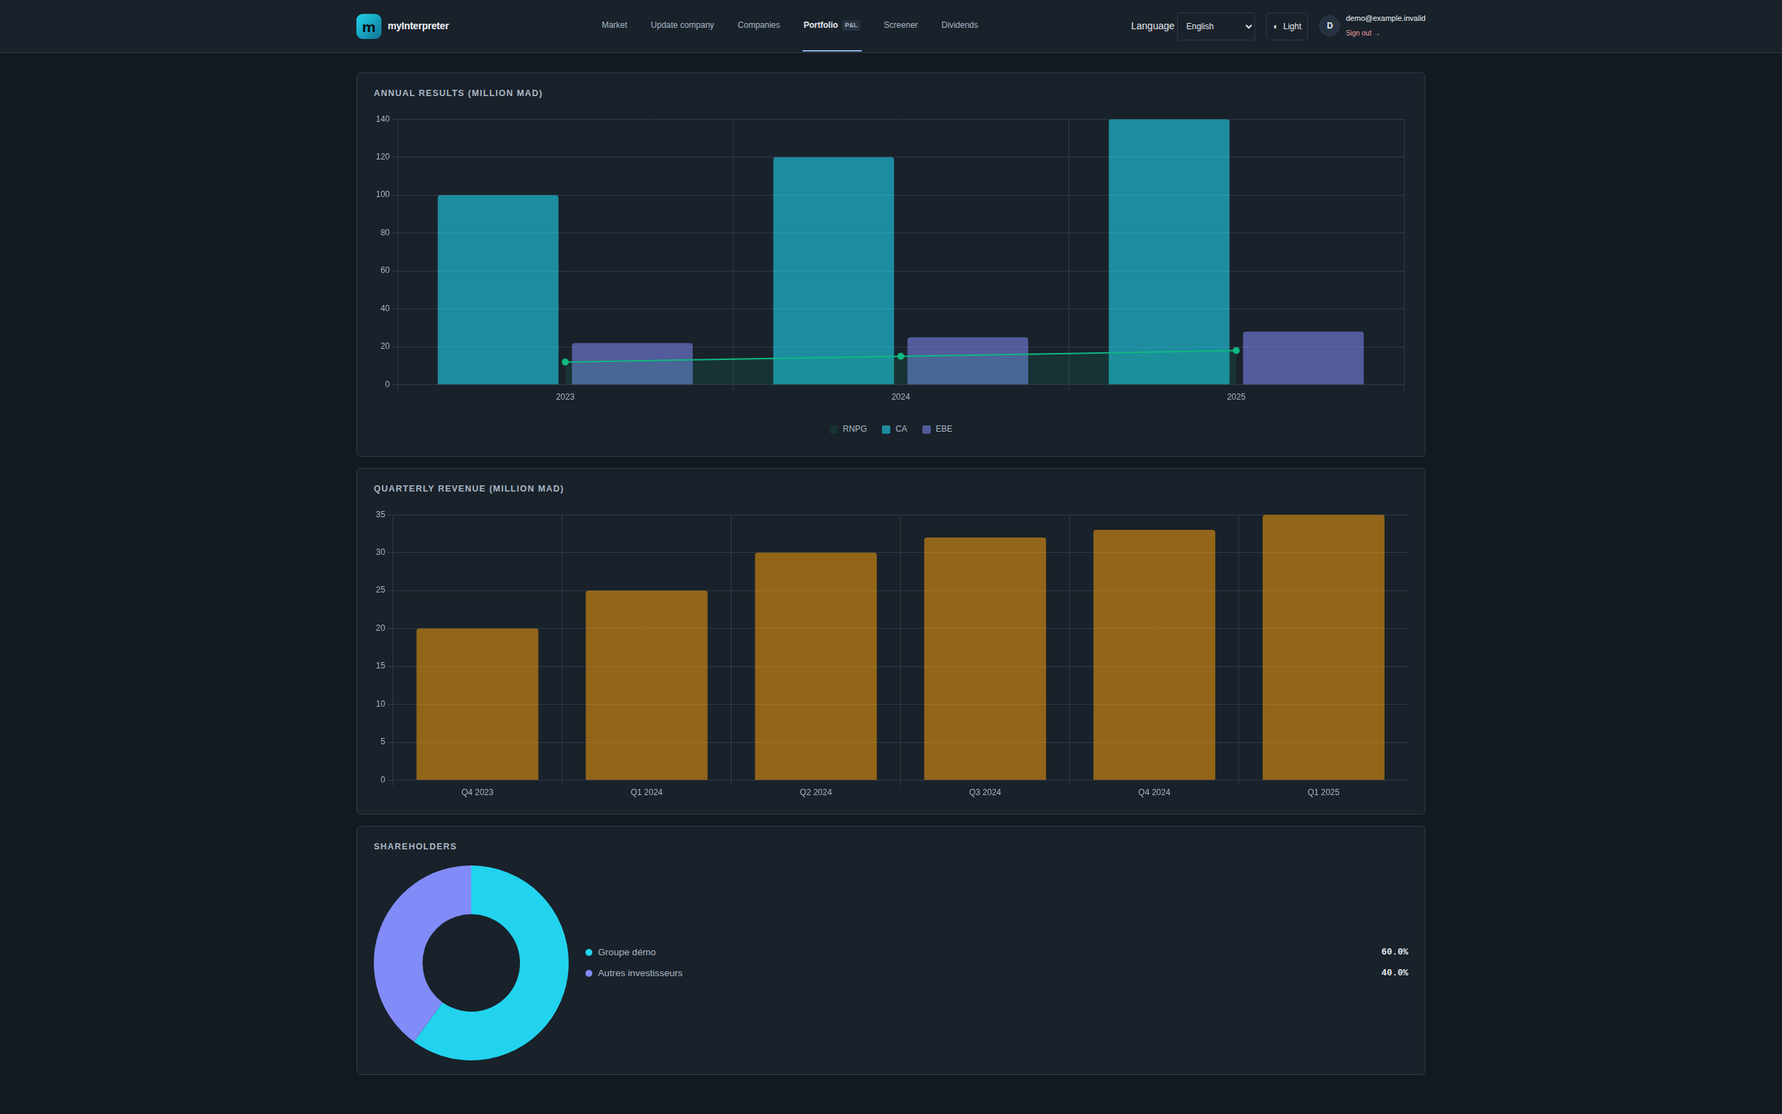
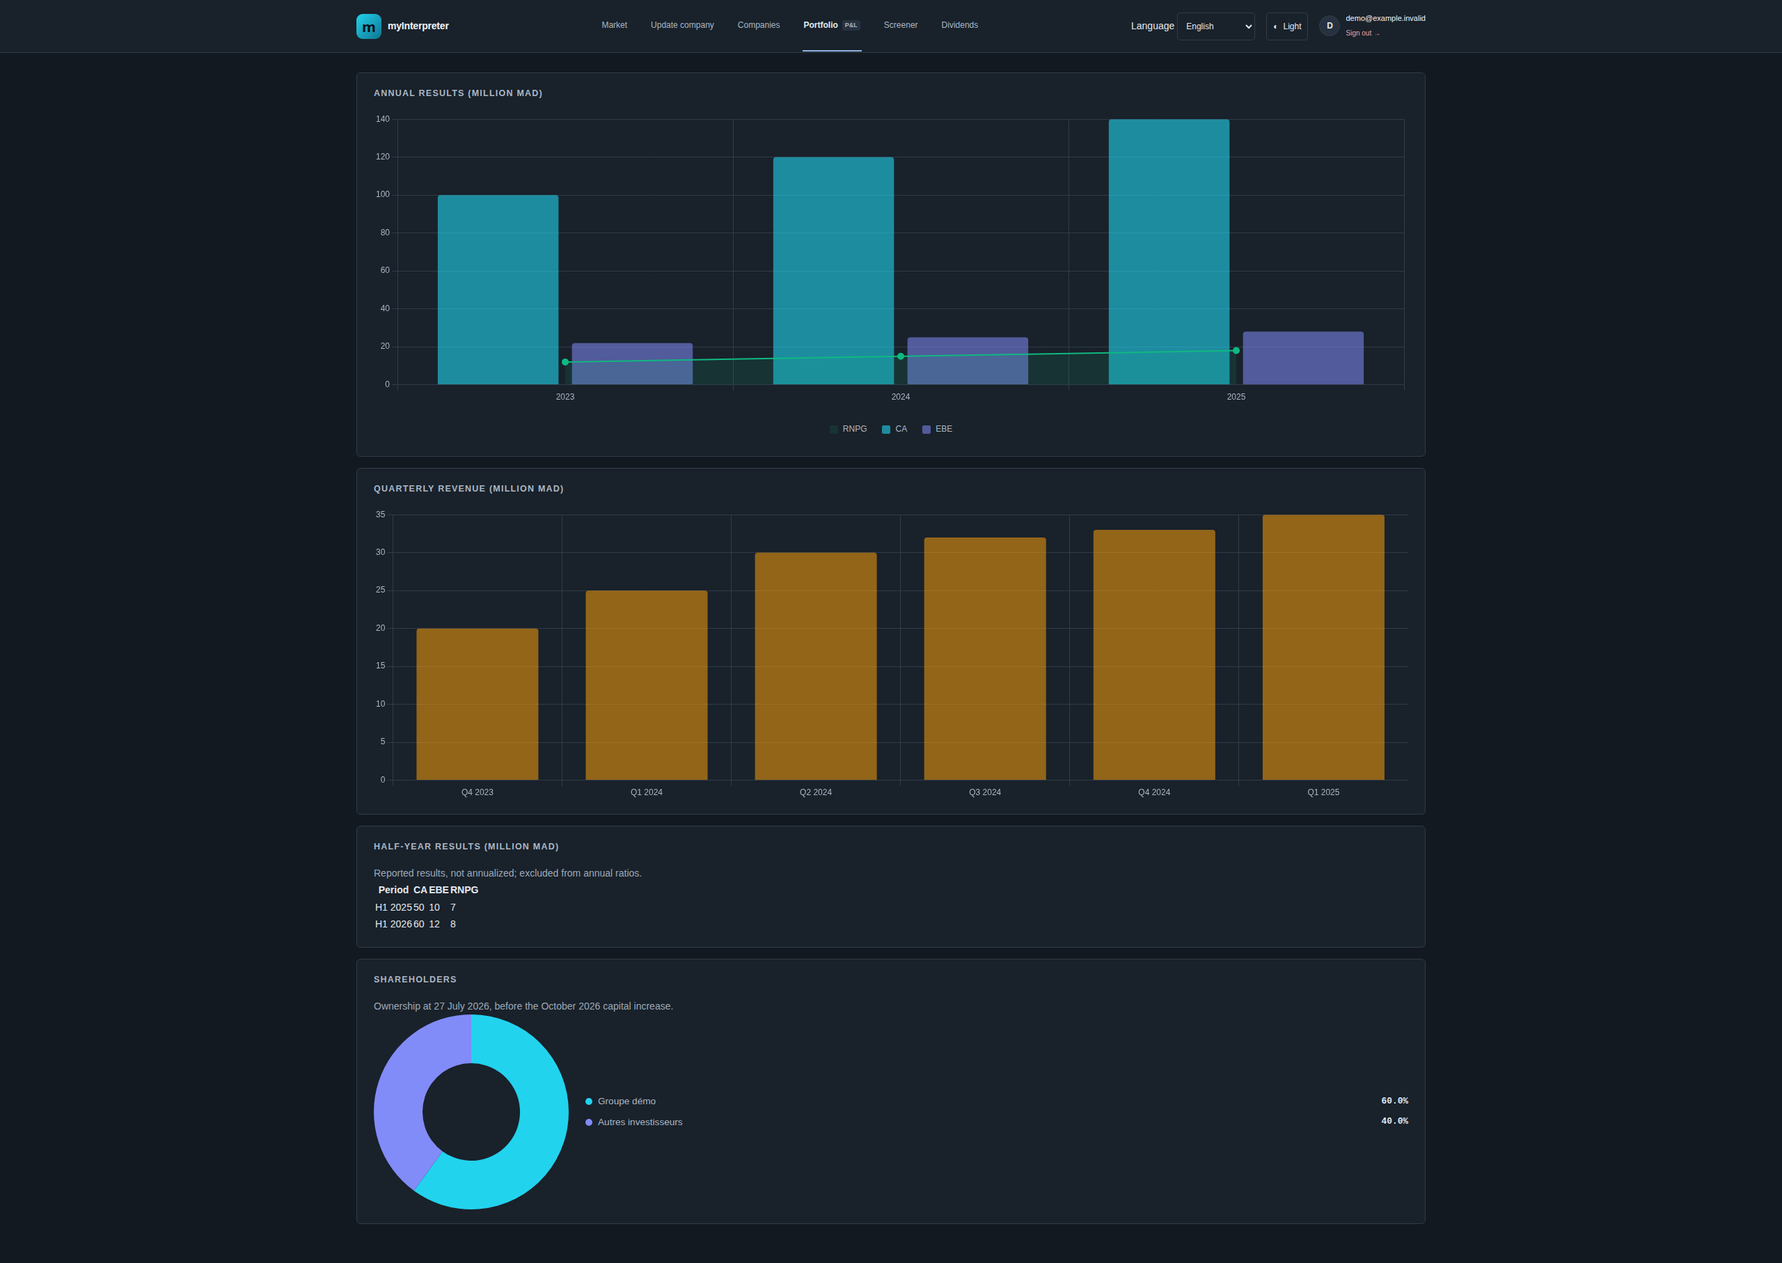
fix(data): complete reviewed T2S disclosures and hosted request fallback

diff --git a/core/company_disclosures.php b/core/company_disclosures.php
@@ -1,0 +1,79 @@
+<?php
+// Reviewed public filings; units and audit trail: docs/T2S_DATA_REVIEW.md.
+// Interim earnings must never replace annual earnings in valuation ratios.
+function reviewed_company_disclosure(string $symbol): ?array
+{
+    if ($symbol !== 'T2S') return null;
+    $shares = 22584118;
+    $profit = 204.576;
+    $equity = 1410404000;
+    return [
+        'name' => 'T2S Group Holding',
+        'fields' => [
+            'fiscal_year' => 2025, 'fy_est' => null, 'rnpg_est' => null,
+            'na' => $shares, 'bpa' => round($profit * 1e6 / $shares, 2),
+            'cp' => $equity, 'roe' => round($profit * 1e6 / $equity * 100, 2),
+            'revenue' => 1763.333, 'net_profit' => $profit,
+            'ebitda' => 388.402, 'ebit' => 381.212,
+            'net_debt' => 222.346, 'net_cash' => 202.821,
+            'total_assets' => 3271.222, 'fcf' => 292.301,
+            'profit_margin' => round($profit / 1763.333 * 100, 2),
+            'sector' => 'Santé',
+            'description' => "Fondé en 1992 à Casablanca, T2S Group fournit des solutions de technologie médicale : équipements, diagnostic, maintenance et systèmes numériques pour les professionnels de santé. Le groupe exerce au Maroc et en Afrique subsaharienne et est coté depuis juillet 2026.",
+        ],
+        'charts' => [
+            'ca' => ['2023' => 1373.642, '2024' => 1507.945, '2025' => 1763.333],
+            'rnpg' => ['2023' => 74.937, '2024' => 67.311, '2025' => 204.576],
+            'ebe' => ['2023' => 245.850, '2024' => 275.748, '2025' => 388.402],
+            'fp' => ['2025' => 1410.404], 'ebit' => ['2025' => 381.212],
+            'dn' => ['2025' => 222.346], 'fcf' => ['2025' => 292.301],
+        ],
+        'shareholders_as_of' => '2026-07-27',
+        'shareholders' => [
+            ['name' => 'Trone Investment Holdings Limited', 'pct' => 42.1],
+            ['name' => 'Abderraouf SORDO', 'pct' => 19.4],
+            ['name' => 'Ahmed ACHAACH', 'pct' => 7.1],
+            ['name' => 'Ismail BOUIH', 'pct' => 3.1],
+            ['name' => 'Mohamed BOUZID', 'pct' => 2.5],
+            ['name' => 'Youssef BENABUD', 'pct' => 1.2],
+            ['name' => 'Autres actionnaires', 'pct' => 2.0],
+            ['name' => 'Flottant', 'pct' => 22.6],
+        ],
+        'interim' => [
+            ['period' => 'S1 2025', 'revenue' => 773, 'ebitda' => 170, 'net_profit' => 109],
+            ['period' => 'S1 2026', 'revenue' => 978, 'ebitda' => 243, 'net_profit' => 91],
+        ],
+    ];
+}
+
+function apply_reviewed_disclosure(string $symbol, array $data): array
+{
+    $reviewed = reviewed_company_disclosure($symbol);
+    if ($reviewed === null) return $data;
+    unset($data['error']);
+    $data['symbol'] = $symbol;
+    $data['ext_name'] = $data['ext_name'] ?? $reviewed['name'];
+    $data['description'] = ($data['description'] ?? null) ?: $reviewed['fields']['description'];
+    $data['sector'] = 'Santé';
+    $latest = 0;
+    foreach (array_keys($data['charts']['rnpg'] ?? []) as $year) {
+        if (preg_match('/^\d{4}$/', (string)$year)) $latest = max($latest, (int)$year);
+    }
+    foreach ($reviewed['charts'] as $metric => $series) {
+        $data['charts'][$metric] = array_replace($data['charts'][$metric] ?? [], $series);
+        foreach (array_keys($series) as $year) unset($data['charts'][$metric][$year . 'p']);
+        ksort($data['charts'][$metric]);
+    }
+    // Historical corrections must not freeze newer reported accounts.
+    if ($latest <= 2025) {
+        $fields = $reviewed['fields'];
+        unset($fields['fy_est'], $fields['rnpg_est'], $fields['sector'], $fields['description']);
+        $data['computed'] = array_replace($data['computed'] ?? [], $fields);
+    }
+    if (empty($data['shareholders'])) {
+        $data['shareholders'] = $reviewed['shareholders'];
+        $data['shareholders_as_of'] = $reviewed['shareholders_as_of'];
+    }
+    $data['interim'] = $reviewed['interim'];
+    return $data;
+}

diff --git a/infoAction.php b/infoAction.php
@@ -400,9 +400,9 @@ if ($awSession && !empty($name ?? '')) {
                   <?= htmlspecialchars(display_name($company['name'] ?? $name, $company['ext_name'] ?? null)) ?>
                   <?php $detailSector = market_sector_for_company($company['name'] ?? $name); ?>
                   <?php if ($detailSector): ?>
-                    <a class="sector-badge" href="infoAction.php?sector=<?= urlencode($detailSector) ?>#companyDirectory"><?= htmlspecialchars(MARKET_SECTORS[$detailSector]) ?></a>
+                    <a class="sector-badge" href="infoAction.php?sector=<?= urlencode($detailSector) ?>#companyDirectory"><?= te(MARKET_SECTORS[$detailSector]) ?></a>
                   <?php elseif (!empty($company['sector'])): ?>
-                    <span class="sector-badge"><?= htmlspecialchars($company['sector']) ?></span>
+                    <span class="sector-badge"><?= te($company['sector']) ?></span>
                   <?php endif; ?>
                   <?php if (!empty($company['fiscal_year'])): ?>
                     <?php // Every figure below comes from this one financial year.
@@ -711,7 +711,7 @@ if ($awSession && !empty($name ?? '')) {
   if (!container) return;
 
   try {
-    const r   = await fetch('handlers/market_proxy.php?symbol=' + encodeURIComponent(sym));
+    const r   = await fetch('handlers/market_proxy.php?v=2&symbol=' + encodeURIComponent(sym));
     const d   = await r.json();
     const c   = d.computed || {};
     const ch  = d.charts   || {};
@@ -744,10 +744,25 @@ if ($awSession && !empty($name ?? '')) {
       }
     }
 
+    // Interim periods are explicitly separate from the annual valuation basis.
+    if (Array.isArray(d.interim) && d.interim.length) {
+      const escapeText = value => {
+        const span = document.createElement('span'); span.textContent = String(value); return span.innerHTML;
+      };
+      html += `<div class="mkt-section">
+        <div class="mkt-section-title">${window.I18n.t('Résultats semestriels (MMAD)')}</div>
+        <p class="muted">${window.I18n.t('Résultats publiés, non annualisés ; exclus des ratios annuels.')}</p>
+        <div class="overflow-x-auto"><table class="table"><thead><tr><th>${window.I18n.t('Période')}</th><th>CA</th><th>EBE</th><th>RNPG</th></tr></thead><tbody>
+          ${d.interim.map(row => `<tr><td>${escapeText(window.I18n.t(row.period))}</td><td>${Number(row.revenue).toFixed(0)}</td><td>${Number(row.ebitda).toFixed(0)}</td><td>${Number(row.net_profit).toFixed(0)}</td></tr>`).join('')}
+        </tbody></table></div>
+      </div>`;
+    }
+
     // Shareholders
     if (d.shareholders && d.shareholders.length > 0) {
       html += `<div class="mkt-section">
         <div class="mkt-section-title"><i class="fas fa-users me-2 t-emerald"></i>${window.I18n.t('Actionnariat')}</div>
+        ${d.shareholders_as_of === '2026-07-27' ? `<p class="muted">${window.I18n.t('Répartition au 27/07/2026, avant l’augmentation de capital d’octobre 2026.')}</p>` : ''}
         <div class="mkt-two-col">
           <div class="holders-chart-wrap"><canvas id="holdersChart"></canvas></div>
           <div class="holders-list" id="holders-list"></div>

diff --git a/handlers/market_proxy.php b/handlers/market_proxy.php
@@ -6,11 +6,17 @@
  */
 
 require_once __DIR__ . '/../config/sources.php';
+require_once __DIR__ . '/../core/company_disclosures.php';
 
 // ── Helpers ───────────────────────────────────────────────────────────────────
 function mkt_batch(array $requests): array {
-    $mh = curl_multi_init();
+    $multiAvailable = true;
+    foreach (['init', 'add_handle', 'exec', 'select', 'getcontent', 'remove_handle', 'close'] as $operation) {
+        if (!function_exists('curl_multi_' . $operation)) $multiAvailable = false;
+    }
+    $mh = $multiAvailable ? curl_multi_init() : null;
     $handles = [];
+    $results = [];
     foreach ($requests as $key => $spec) {
         $ch  = curl_init($spec['url']);
         // The upstream proxy returns 403 without a same-origin Referer/Origin.
@@ -27,9 +33,16 @@ function mkt_batch(array $requests): array {
             $opts[CURLOPT_HTTPHEADER][] = 'Content-Type: application/json';
         }
         curl_setopt_array($ch, $opts);
-        curl_multi_add_handle($mh, $ch);
-        $handles[$key] = $ch;
+        if ($multiAvailable) {
+            curl_multi_add_handle($mh, $ch);
+            $handles[$key] = $ch;
+        } else {
+            $body = curl_exec($ch);
+            $results[$key] = $body ? (json_decode($body, true) ?? null) : null;
+            curl_close($ch);
+        }
     }
+    if (!$multiAvailable) return $results;
     $running = null;
     do { curl_multi_exec($mh, $running); curl_multi_select($mh, 0.1); } while ($running > 0);
     $results = [];
@@ -106,6 +119,10 @@ function mkt_cagr(array $r, string $k, int $yr = 5): ?float {
 
 // ── Main fetch function (callable directly or via HTTP) ───────────────────────
 function mkt_fetch_symbol(string $symbol): array {
+    return apply_reviewed_disclosure($symbol, mkt_fetch_upstream_symbol($symbol));
+}
+
+function mkt_fetch_upstream_symbol(string $symbol): array {
     $_SRC1 = SRC_FUND_BASE;
     $_SRC2 = SRC_FUND_BASE . '/supabase';
 

diff --git a/tools/apply_reviewed_company.php b/tools/apply_reviewed_company.php
@@ -1,0 +1,33 @@
+<?php
+// CLI-only, explicit audited-company update. Never deploy this tool.
+if (PHP_SAPI !== 'cli') { http_response_code(404); exit; }
+require __DIR__ . '/../config/config.php';
+require __DIR__ . '/../core/Appwrite.php';
+require __DIR__ . '/../core/company_disclosures.php';
+$symbol = $argv[1] ?? '';
+$review = reviewed_company_disclosure($symbol);
+if (!$review) throw new RuntimeException('No reviewed disclosure for this symbol');
+$docs = aw_list_docs('company', [q_equal('name', $review['name']), q_limit(2)]);
+if (count($docs) !== 1) throw new RuntimeException('Expected exactly one company');
+$current = $docs[0];
+if (($current['fiscal_year'] ?? 0) > $review['fields']['fiscal_year']) {
+    throw new RuntimeException('Refusing to overwrite newer accounts');
+}
+$changes = [];
+foreach ($review['fields'] as $key => $value) {
+    if (($current[$key] ?? null) !== $value) $changes[$key] = $value;
+}
+echo $symbol . ': ' . count($changes) . ' reviewed fields: ' . implode(', ', array_keys($changes)) . PHP_EOL;
+if (!in_array('--apply', $argv, true) || !$changes) exit;
+$backup = tempnam(sys_get_temp_dir(), 'myinterpreter-company-');
+if (!$backup || file_put_contents($backup, json_encode($current, JSON_PRETTY_PRINT | JSON_UNESCAPED_UNICODE)) === false) {
+    throw new RuntimeException('Backup failed; no changes made');
+}
+chmod($backup, 0600);
+echo 'Rollback record: ' . $backup . PHP_EOL;
+aw_update_doc('company', $current['$id'], $changes);
+$saved = aw_list_docs('company', [q_equal('name', $review['name']), q_limit(1)])[0] ?? [];
+foreach ($changes as $key => $value) {
+    if (($saved[$key] ?? null) != $value) throw new RuntimeException('Read-back mismatch: ' . $key);
+}
+echo "PASS company update read-back; prices and historical records untouched\n";

diff --git a/tests/company_disclosures_test.php b/tests/company_disclosures_test.php
@@ -1,0 +1,17 @@
+<?php
+require __DIR__ . '/../core/company_disclosures.php';
+function verify($condition, $label) { if (!$condition) throw new RuntimeException($label); }
+$r = reviewed_company_disclosure('T2S');
+verify($r['fields']['fiscal_year'] === 2025, 'Reported fiscal year');
+verify($r['fields']['na'] === 22584118, 'Post-capital-increase shares');
+verify(abs($r['fields']['bpa'] - 9.06) < .001, 'Normalized EPS');
+verify(abs(array_sum(array_column($r['shareholders'], 'pct')) - 100) < .001, 'Dated shareholder total');
+$d = apply_reviewed_disclosure('T2S', ['error' => 'unavailable']);
+verify(!isset($d['error']) && $d['computed']['net_profit'] === 204.576, 'Offline reviewed fallback');
+verify($d['interim'][1]['net_profit'] === 91, 'Interim earnings kept separate');
+$d = apply_reviewed_disclosure('T2S', ['charts' => ['rnpg' => ['2025p' => 204.5, '2026p' => 241]]]);
+verify(!isset($d['charts']['rnpg']['2025p']) && isset($d['charts']['rnpg']['2026p']), 'Only obsolete forecast removed');
+$d = apply_reviewed_disclosure('T2S', ['charts' => ['rnpg' => ['2026' => 250]], 'computed' => ['net_profit' => 250]]);
+verify($d['computed']['net_profit'] === 250, 'Newer reported accounts preserved');
+verify(apply_reviewed_disclosure('OTHER', ['error' => 'missing']) === ['error' => 'missing'], 'Other companies unchanged');
+echo "PASS reviewed company disclosures\n";

diff --git a/core/Appwrite.php b/core/Appwrite.php
@@ -152,7 +152,11 @@ function aw_count_docs(string $collectionId, array $queries = [], ?string $sessi
  */
 function aw_multi_list_docs(array $requests): array
 {
-    if (!function_exists('curl_multi_init')) {
+    $multiAvailable = true;
+    foreach (['init', 'add_handle', 'exec', 'select', 'getcontent', 'remove_handle', 'close'] as $operation) {
+        if (!function_exists('curl_multi_' . $operation)) $multiAvailable = false;
+    }
+    if (!$multiAvailable) {
         $results = [];
         foreach ($requests as $key => [$collection, $queries, $session]) {
             $results[$key] = aw_list_docs($collection, $queries, $session);

diff --git a/tests/sector_allocation_test.php b/tests/sector_allocation_test.php
@@ -13,7 +13,8 @@ $allocation = market_sector_allocation([
 
 $byCode = array_column($allocation['rows'], null, 'code');
 assert(count(MARKET_SECTORS) === 24);
-assert(array_sum(array_column($allocation['rows'], 'market')) === 78);
+assert(array_sum(array_column($allocation['rows'], 'market')) === 79);
+assert(market_sector_for_company('T2S Group Holding') === 'SAN');
 assert($byCode['AGR']['held'] === 2 && $byCode['AGR']['market'] === 6);
 assert($byCode['AGR']['value'] === 300.0);
 assert($byCode['BMC']['held'] === 1 && $byCode['BMC']['market'] === 9);

diff --git a/tests/partial_curl_test.php b/tests/partial_curl_test.php
@@ -1,0 +1,7 @@
+<?php
+// Run: php -d disable_functions=curl_multi_exec tests/partial_curl_test.php
+require __DIR__ . '/../core/Appwrite.php';
+require __DIR__ . '/../handlers/market_proxy.php';
+if (function_exists('curl_multi_exec')) throw new RuntimeException('Disable curl_multi_exec for this regression');
+if (aw_multi_list_docs([]) !== [] || mkt_batch([]) !== []) throw new RuntimeException('Sequential fallback failed');
+echo "PASS partially disabled parallel-cURL fallback\n";

diff --git a/core/sector_allocation.php b/core/sector_allocation.php
@@ -1,5 +1,6 @@
 <?php
 // Bourse de Casablanca, Bulletin de la cote, séance du 28/09/2026.
+// T2S healthcare classification supplemented from its exchange instrument record.
 // One listed issuer per line. Refresh this snapshot when the listing changes.
 const MARKET_SECTOR_DATE = '28/09/2026';
 const MARKET_SECTORS = [
@@ -103,6 +104,7 @@ CASH PLUS S.A|SFA
 CFG BANK|BAN
 TGCC S.A|BMC
 VICENNE|SAN
+T2S Group Holding|SAN
 AGMA|ASS
 COLORADO|BMC
 DISTY TECHNOLOGIES|LSI

diff --git a/docs/T2S_DATA_REVIEW.md b/docs/T2S_DATA_REVIEW.md
@@ -1,0 +1,49 @@
+# T2S data review — 19 October 2026
+
+The existing company record used 2024 accounts, treated 2025 earnings as a
+forecast, and lacked a profile and healthcare classification. Its price was
+current. The annual chart also mixed 2024 net income with 2025 revenue/equity.
+
+## Public evidence (not runtime data-provider configuration)
+
+- [2025 reference document](https://www.ammc.ma/sites/default/files/T2S_IPO_DR_010_2026_2.pdf): printed pp. 211, 219, 221, 239, 241.
+  Annual revenue 1,763.333 MMAD; group net income 204.576 MMAD; group equity
+  1,410.404 MMAD; total assets 3,271.222 MMAD; operating profit 381.212 MMAD.
+  Figures are converted from KMAD to MMAD, or MAD for stored equity.
+- EBE uses the explicitly identified EBE in the debt-ratio table (p.239):
+  245.850 / 275.748 / 388.402 MMAD for 2023/2024/2025, not operating profit
+  before provisions including non-recurring items (453.680 MMAD in 2025).
+- Net debt is 222.346 MMAD using the issuer's definition. Net cash here is
+  cash assets less cash liabilities: 359.641 − 156.820 = 202.821 MMAD.
+  FCF follows the site's operating-plus-investing-cash-flow convention:
+  318.466 − 26.165 = 292.301 MMAD (not operating cash flow less gross capex).
+- [Current exchange share listing](https://www.casablanca-bourse.com/ar/marches-produits/actions):
+  22,584,118 shares after the October capital increase, replacing 21,785,174.
+  [Instrument classification](https://www.casablanca-bourse.com/fr/live-market/instruments/T2S): healthcare.
+- [Issuer record](https://www.ammc.ma/fr/espace-emetteurs/liste-des-emetteurs/55122):
+  July 27 shareholder distribution. It is displayed as a dated historical
+  snapshot, explicitly before the October increase, not as current ownership.
+- [H1 2026 release](https://www.ammc.ma/sites/default/files/CP_T2S_group_S1_26.pdf):
+  revenue 978, EBE 243, reported group net income 91 MMAD; H1 2025 comparatives
+  773, 170, 109. The adjusted 55 MMAD comparator is NOT substituted for reported
+  earnings. Interim figures are shown separately and not annualized.
+
+## Application and safeguards
+
+`core/company_disclosures.php` supplies reviewed historical chart corrections
+and a fallback if the normal enrichment is unavailable. Newer reported annual
+earnings remain eligible to replace the current computed values. The older
+2025 forecast is removed once its actual result is present; future projections
+remain projections. No invented dividend, beta or five-year growth is added.
+
+`tools/apply_reviewed_company.php T2S` previews the single-company database patch;
+`--apply` backs up the public company record outside the website and verifies the
+write. It never changes permissions, prices or historical price snapshots.
+EPS is normalized using current shares (9.06 MAD), not the historical weighted
+average share count. ROE follows the site's closing group-equity convention
+(14.50%), not the issuer's average-total-equity ROE (15.8%).
+
+The existing price job should pick up revised fundamentals on its next run.
+Historical ratios are deliberately not rewritten. No cloud function was
+redeployed; unknown five-year growth and beta remain blank. Review the supplement
+when newer accounts, share counts or shareholder disclosures appear.

diff --git a/docs/DEPLOYMENT_2026_10_19.md b/docs/DEPLOYMENT_2026_10_19.md
@@ -1,0 +1,45 @@
+# Website deployment — 19 October 2026
+
+Published the Workspace website with French, English, Arabic and Darija, followed
+by the reviewed T2S supplement. No cloud-function or Flutter deployment and no
+Git push were performed. Existing private runtime configuration was preserved.
+
+Deployment tooling now selects tracked runtime files only, includes locale JSON,
+uses encrypted FTP, compares file contents, snapshots remote targets before any
+write and verifies uploaded bytes. Research, tests and design screenshots are
+excluded. Explicit paths cannot escape the repository.
+
+Production exposed a partial cURL-multi implementation: initialization existed
+but execution was disabled. Both database batches and chart enrichment now
+fall back to sequential requests when any required operation is unavailable.
+This preserves parallel reads on capable hosts. Chart enrichment on this host
+can consequently be slower (T2S observed at approximately 13.5 seconds after
+the main page); improving that requires a separate caching/performance pass.
+
+Verification: PHP lint, catalog tests for all four locales, reviewed-disclosure
+tests, sector tests, deploy-manifest tests, partial-cURL regression and read-only
+query equivalence. Synthetic browser checks passed English/Arabic at seven
+widths in both themes. Live English and Arabic T2S checks confirmed annual and
+interim figures, dated ownership, charts, dark mode and no mobile overflow.
+Live screener and dividends rendered populated tables; logged-out portfolio
+rendered the login screen. No real account/trade submission was tested.
+The screener initially still showed its pre-correction 10:49 ratio snapshot;
+it reads stored price-job ratios, not the company table directly. It will pick
+up the new annual basis on the next normal price-job run. No history was rewritten
+and no broad market-refresh function was triggered just to update this issuer.
+
+## Rollback material (local only, ignored, never uploaded)
+
+Copies are retained under `private/deployment-backups/2026-10-19/`:
+
+- `myinterpreter-deploy-5mg2v_9t`: website before language/design deployment.
+- `myinterpreter-deploy-2wpapfhw`: before the T2S supplement.
+- `myinterpreter-deploy-xpixzek3`: before hosted-cURL compatibility changes.
+- `myinterpreter-deploy-qz_mrdes`: before final sector-label localization.
+- `myinterpreter-company-7ct3b0k3pbj4fVP1mZ7`: original T2S public company record.
+
+Each website backup lists newly introduced paths in `new-files.txt`. Backups
+are private and are not part of Git. Restore only reviewed targets over the
+configured encrypted connection. A Git revert alone does not revert the
+Appwrite company record; restoring that record requires a separate reviewed
+database patch. Historical price records were not modified.
